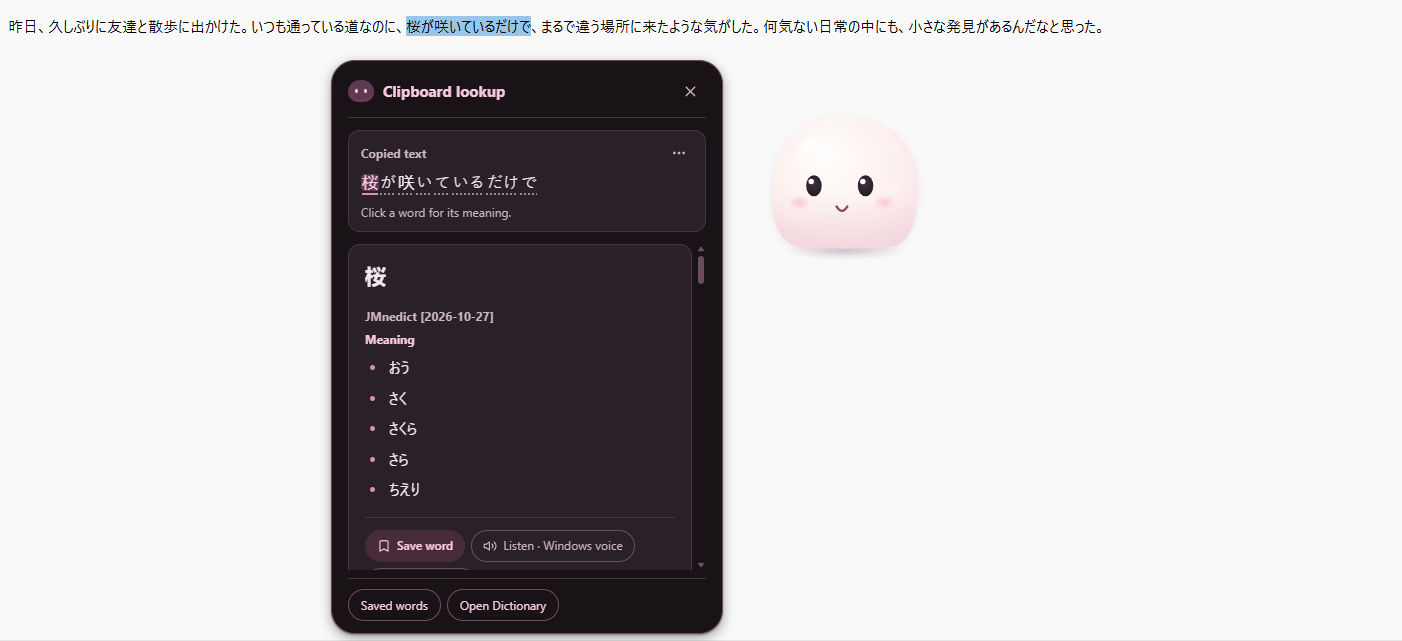
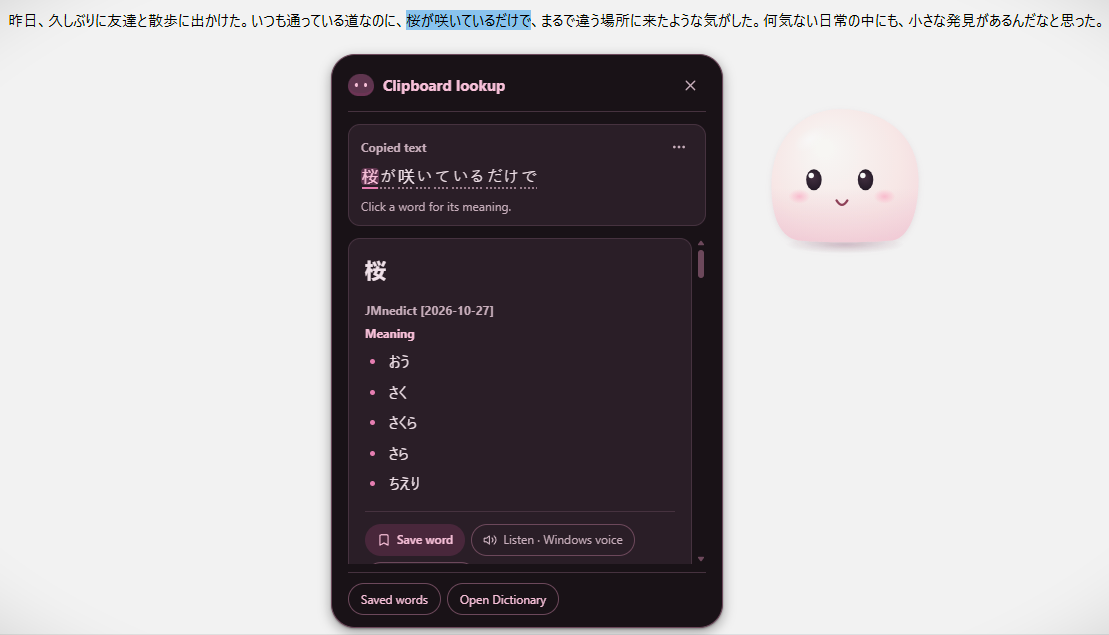
Add files via upload

diff --git a/index.html b/index.html
@@ -172,8 +172,8 @@ html{scroll-padding-top:90px}.logo-mark{overflow:visible}
     </div>
     <div id="p-manga" role="tabpanel" aria-labelledby="t-manga" tabindex="0"><figure class="demo-media"><video controls playsinline preload="none" poster="assets/demos/manga-poster.jpg" aria-label="Komofuu manga OCR demonstration"><source src="assets/demos/manga-demo.mp4" type="video/mp4">Your browser cannot play this video. <a href="assets/demos/manga-demo.mp4">Download the manga demonstration</a>.</video><figcaption>Manga OCR recording · Scan visible Japanese text and hover a highlight for a dictionary lookup. <a href="assets/demos/manga-demo.mp4">Open video</a></figcaption></figure></div>
     <div id="p-vn" role="tabpanel" aria-labelledby="t-vn" tabindex="0" hidden><figure class="demo-media"><a href="assets/demos/visual-novel-demo.png"><img src="assets/demos/visual-novel-demo.png" width="1134" height="877" loading="lazy" alt="Komofuu showing the dictionary entry for 人物 over a visual-novel screenshot"></a><figcaption>Visual-novel lookup screenshot. App demonstration features an overlay on <a href="https://commons.wikimedia.org/wiki/File:Korenanteeroge.png" rel="noreferrer">Korenanteeroge.png</a> by <a href="https://commons.wikimedia.org/wiki/User:Eky" rel="noreferrer">User:Eky</a> (via Wikimedia Commons), used under <a href="https://creativecommons.org/licenses/by-sa/3.0/" rel="license noreferrer">CC BY-SA 3.0</a>. Changes: resized background with Komofuu and dictionary overlays. This composite screenshot is licensed under CC BY-SA 3.0. No endorsement is implied.</figcaption></figure></div>
-    <div id="p-clip" role="tabpanel" aria-labelledby="t-clip" tabindex="0" hidden><figure class="demo-media"><a href="assets/demos/clipboard-demo.png"><img src="assets/demos/clipboard-demo.png" width="1402" height="641" loading="lazy" alt="Komofuu clipboard dictionary with selectable Japanese sentence words"></a><figcaption>Clipboard lookup screenshot · Copy Japanese text, then choose a word from the sentence.</figcaption></figure></div>
-    <div id="p-saved" role="tabpanel" aria-labelledby="t-saved" tabindex="0" hidden><figure class="demo-media"><a href="assets/demos/saved-words-demo.png"><img src="assets/demos/saved-words-demo.png" width="680" height="760" loading="lazy" alt="Komofuu saved vocabulary list for reviewing words"></a><figcaption>Saved words screenshot · Revisit vocabulary you saved while reading.</figcaption></figure></div>
+    <div id="p-clip" role="tabpanel" aria-labelledby="t-clip" tabindex="0" hidden><figure class="demo-media"><a href="assets/demos/clipboard-demo.png"><img src="assets/demos/clipboard-demo.png" width="1109" height="635" loading="lazy" alt="Komofuu clipboard dictionary with selectable Japanese sentence words"></a><figcaption>Clipboard lookup screenshot · Copy Japanese text, then choose a word from the sentence.</figcaption></figure></div>
+    <div id="p-saved" role="tabpanel" aria-labelledby="t-saved" tabindex="0" hidden><figure class="demo-media"><a href="assets/demos/saved-words-demo.png"><img src="assets/demos/saved-words-demo.png" width="671" height="752" loading="lazy" alt="Komofuu saved vocabulary list for reviewing words"></a><figcaption>Saved words screenshot · Revisit vocabulary you saved while reading.</figcaption></figure></div>
     </section>
 
   <section id="features">
@@ -375,4 +375,5 @@ loadRelease();
 </script>
 </body>
 </html>
+
 
